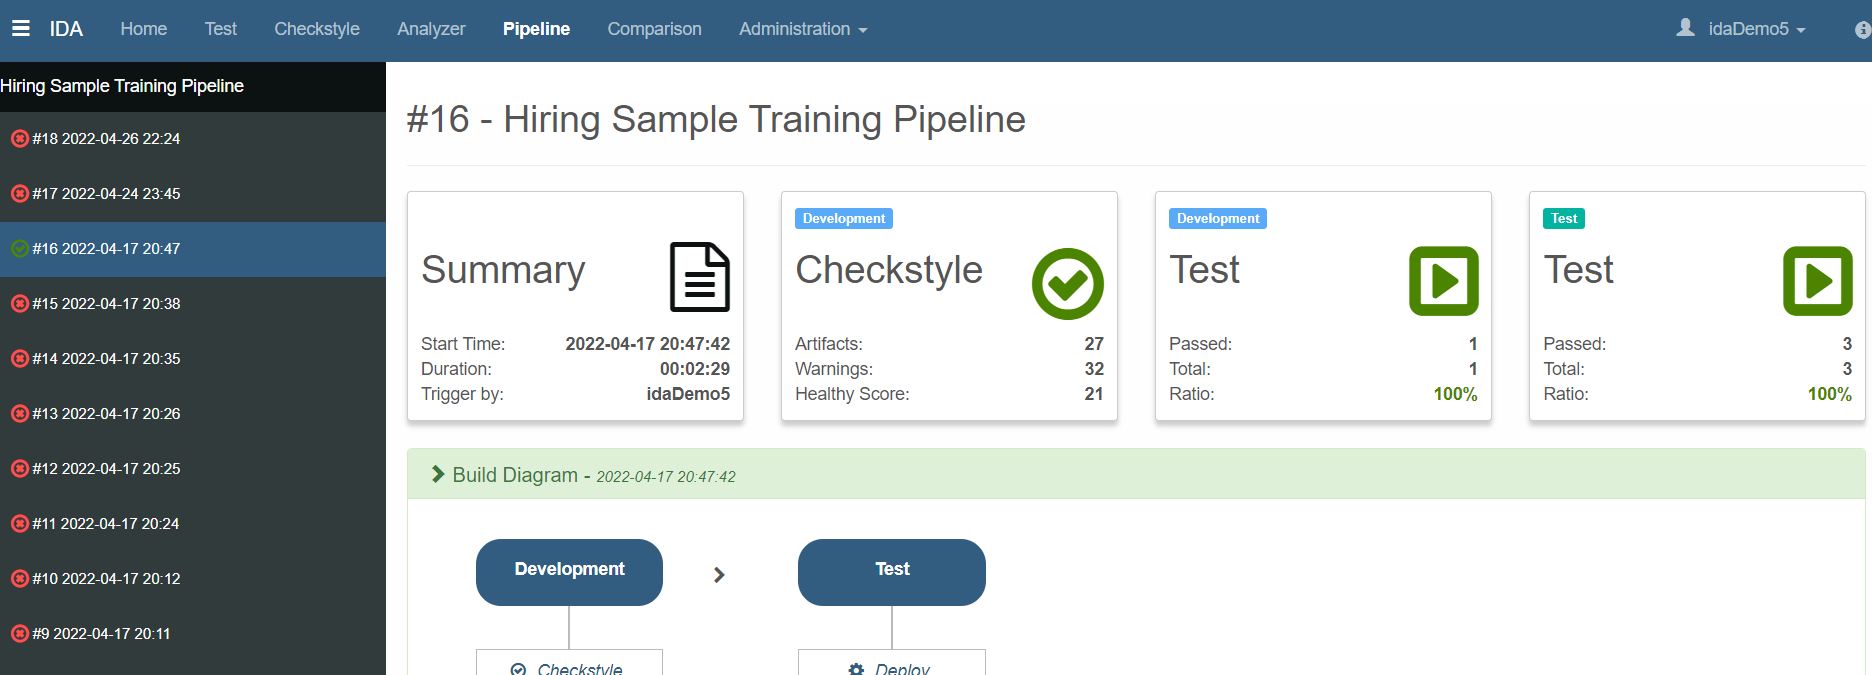
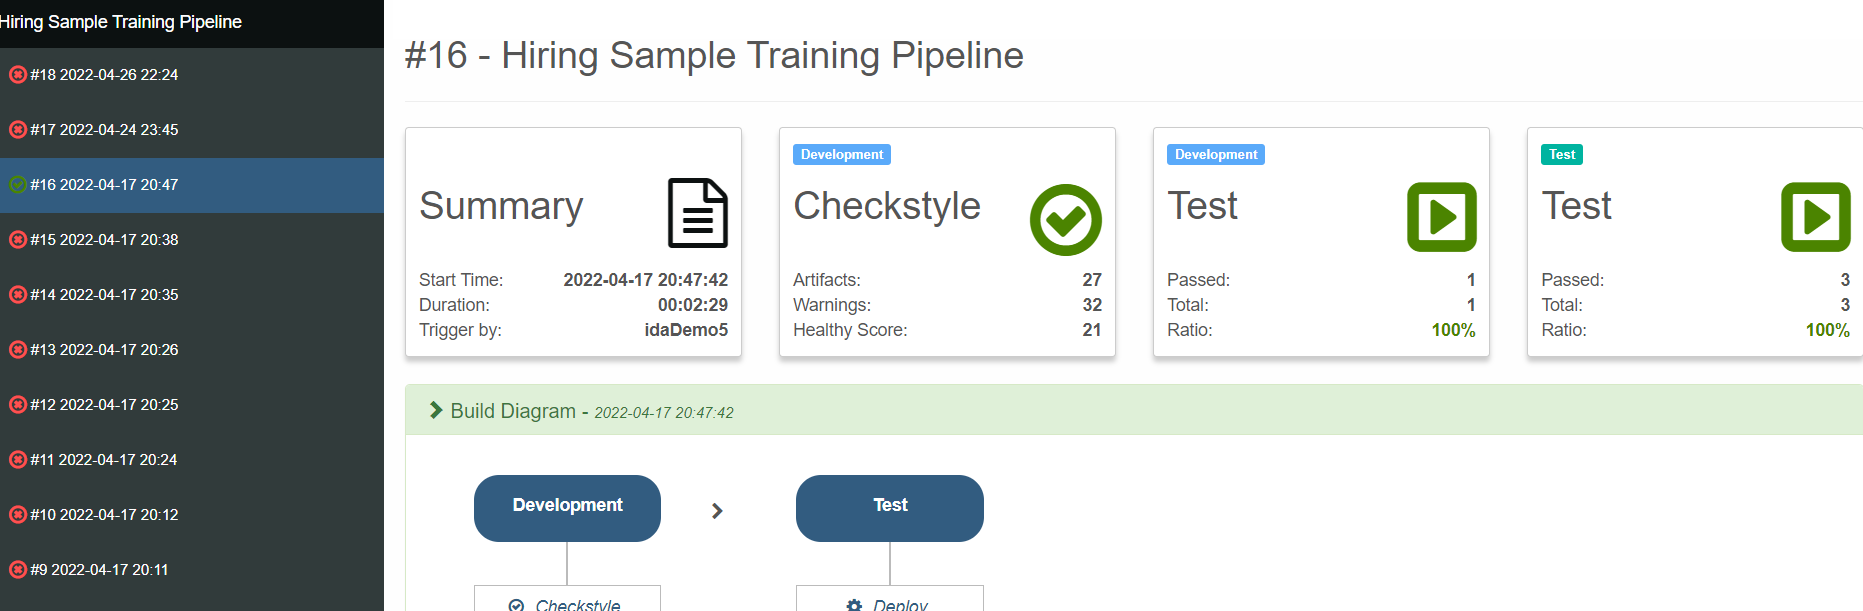
reference and troubleshooting for #3724

diff --git a/_posts/2018-11-27-references-ida-plugin.md b/_posts/2018-11-27-references-ida-plugin.md
@@ -11,12 +11,12 @@ last_modified_at: 2021-01-29 15:39:00
 
 After installing the IDA plug-in. You need to log in to the plug-in to use it. If you are not logged in, the following information will appear when using the record function in testing.
 
-![][plugin_message]{:height="60%" width="60%"}
+![][plugin_message]{:width="40%"}
 
 1. Click the plug-in button, the landing page will pop up.
       
       
-    ![][plugin_login]{:height="60%" width="60%"}
+    ![][plugin_login]{:width="40%"}
 
      Parameter             | Description       
 	 ----------------------|-------------------
@@ -27,7 +27,7 @@ After installing the IDA plug-in. You need to log in to the plug-in to use it. I
 
 2. After successfully logging in, you will see the following interface.
 
-    ![][plugin_menu]{:height="60%" width="60%"}
+    ![][plugin_menu]{:width="40%"}
     
 	 Parameter             | Description       
 	 ----------------------|-------------------
@@ -43,23 +43,23 @@ After installing the IDA plug-in. You need to log in to the plug-in to use it. I
 
 1. You can enter the configuration page through the following two entrances.
 
-    ![][plugin_profile_menu]{:height="40%" width="40%"}
+    ![][plugin_profile_menu]{:width="30%"}
         
     OR
     
-    ![][plugin_settings]{:height="60%" width="60%"}
+    ![][plugin_settings]{:width="40%"}
     
 2. Enter **Setting** tab and click the **Notifications** left-side menu.
 
-    ![][plugin_profile_main]{:height="80%" width="80%"}
+    ![][plugin_profile_main]{:width="80%"}
     
 3. Configure according to your needs. If you don't see the notifications configuration page, check with your admin if s/he has enabled notifications on Settings page. See [General Configuration][settings-notifications-step-ref].
 
 4. You can turn on/off system notifications popup window on the plugin.
 
-   ![][plugin_notifications]{:height="60%" width="60%"}
+   ![][plugin_notifications]{:width="40%"}
 
-   ![][plugin_notifications_popup]{:height="60%" width="60%"}
+   ![][plugin_notifications_popup]{:width="40%"}
 
 ### Messages
 
@@ -69,11 +69,11 @@ After installing the IDA plug-in. You need to log in to the plug-in to use it. I
 
 2. Click **Notifications** to enter the messages page.
 
-    ![][plugin_notification_message]{:height="60%" width="60%"}
+    ![][plugin_notification_message]{:width="40%"}
 
 3. You can click to view details.
 
-    ![][plugin_notification_message_details]{:height="60%" width="60%"}
+    ![][plugin_notification_message_details]{:width="40%"}
 
 ## WebPD Integration
 
@@ -123,7 +123,7 @@ When you install the IDA plug-in and use BAW WebPD, you will find three new tabs
     
      OR
      
-    ![][plugin_webpd_comparison_compare_any_done]{:height="80%" width="80%"}
+    ![][plugin_webpd_comparison_compare_any_done]{:width="60%"}
     
 5. After clicking, it will jump to the specific comparison result page.
 

diff --git a/_posts/2018-12-11-troubleshooting-pipeline-troubleshooting.md b/_posts/2018-12-11-troubleshooting-pipeline-troubleshooting.md
@@ -15,9 +15,9 @@ When you run pipeline, you can review pipeline step reports and logs of each pip
 
 2. For a failed Checkstyle step, open and view the detailed checkstyle report. Check if the health score is above the threshold set in pipeline step.
 
-   ![][pipeline_checkstyle_report]
+   ![][pipeline_checkstyle_report]{:width="80%"}
 
-   ![][pipeline_checkstyle_step]
+   ![][pipeline_checkstyle_step]{:width="80%"}
 
 3. For a failed Test step, open its report and click to view the Trace messages and screenshots(if available) on the failed step of failed test cases.
 
